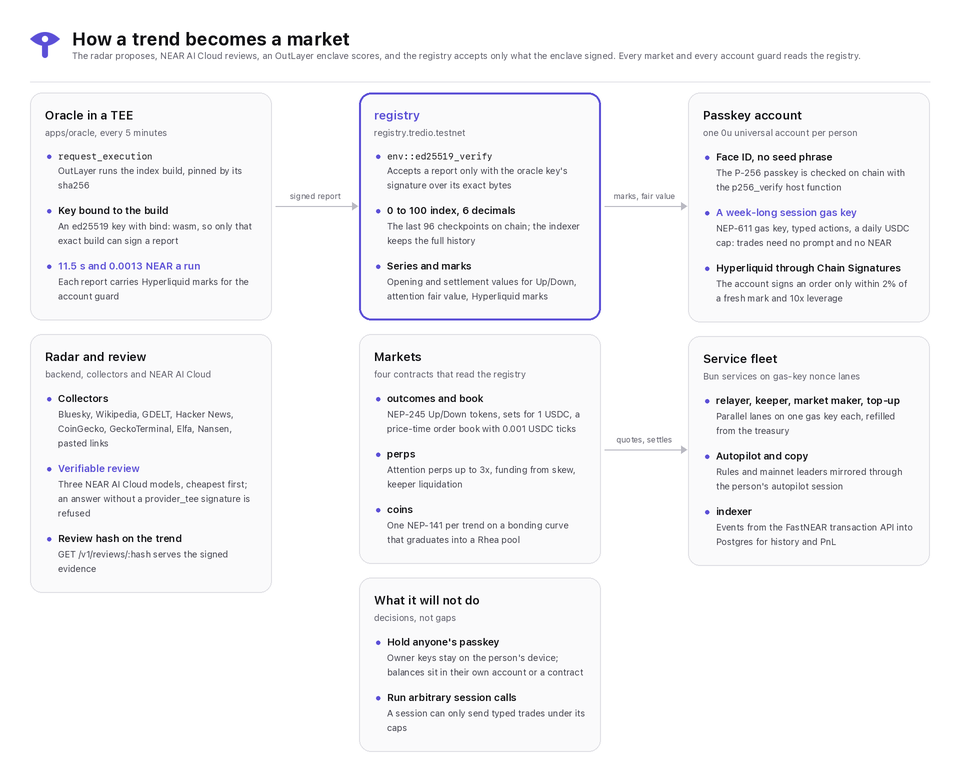
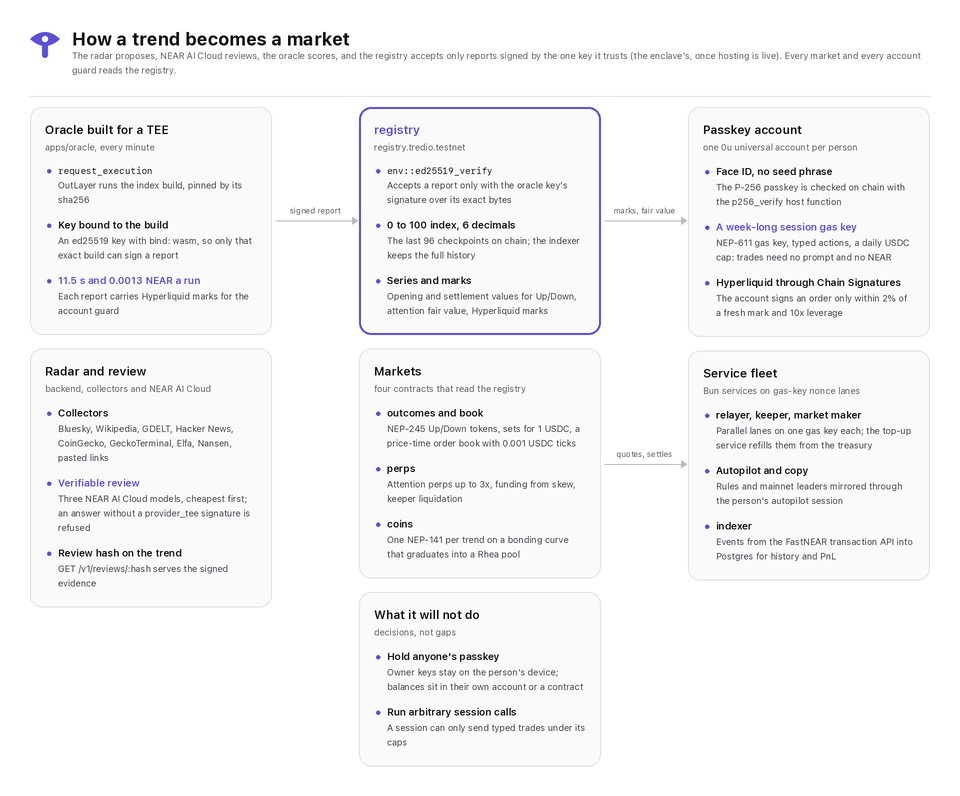
Docs say exactly what is live on testnet, after an independent review
- README: the oracle is 'built for an enclave' with its testnet status (bootstrap key until the API is hosted); review, Hyperliquid and hosting each carry their status; the top-up service refills gas keys rather than sending through one; Autopilot's on-chain guard is price and leverage, with stop-loss and loss limits off chain; one cadence everywhere (runs every minute, reports a trend on a 1% move or every seven minutes, marks every run); what pnpm verify checks, as it checks it; app screenshots; one sentence per line.
- JUDGES: a hosting line, the bootstrap key in the oracle rows, account code v2 not yet published (H-1 open on v1 accounts), the account code only its passkey can switch, and the x402 payer named.
- AUDIT: user presence versus user verification as an accepted risk.
- Website, llms.txt and the status page: the same wording; the radar has eight sources.

diff --git a/landing-page/src/config/content.js b/landing-page/src/config/content.js
@@ -8,7 +8,7 @@ export const HOW_IT_WORKS = [
     heading: "A topic starts trending. Tredio's radar spots it and proposes a market.",
     label: "Radar",
     detail: "Signals",
-    description: "Six data sources feed it, around the clock.",
+    description: "Eight data sources feed it, around the clock.",
   },
   {
     image: "/assets/img/about-review.webp",
@@ -19,10 +19,10 @@ export const HOW_IT_WORKS = [
   },
   {
     image: "/assets/img/crypto-chart.jpg",
-    heading: "Inside an OutLayer TEE, an oracle scores its attention from 0 to 100 and writes it on NEAR.",
+    heading: "An oracle built for an OutLayer TEE scores its attention from 0 to 100 and writes it on NEAR.",
     label: "Oracle",
     detail: "OutLayer TEE",
-    description: "The registry accepts attested reports only.",
+    description: "The registry accepts reports signed by its one oracle key only.",
   },
   {
     image: "/assets/img/about-markets.webp",
@@ -78,7 +78,7 @@ export const TRACKS = [
     background: "bg-[#110F28]",
     title: "Agents read the index and trade by the rules you set.",
     description:
-      "An MCP server and a pay-per-call x402 API give agents the index and the markets. Autopilot trades your rules through a revocable session on your own account, inside limits your passkey signed.",
+      "An MCP server and a pay-per-call x402 API give agents the index and the markets. Autopilot trades your rules through a revocable session on your own account, under an on-chain price and leverage guard.",
     image: "/assets/img/track-agents.webp",
     alt: "An agent's tool call reading a trend's index, and an Autopilot rule with its limits",
   },

diff --git a/frontend/src/features/status/Status.tsx b/frontend/src/features/status/Status.tsx
@@ -136,7 +136,7 @@ function OracleCard({ s, since }: { s: SystemStatus; since: number }) {
         <Fact label="Live trends" value={live === undefined ? "..." : integer(live)} testId="live-trends" />
         <Fact label="Trends behind on measurements" value={integer(s.oracle.staleTrends)} tone={s.oracle.staleTrends > 0 ? "warn" : undefined} testId="stale-trends" />
       </div>
-      <p className="text-[13px] leading-5 text-text-2">The Tredio oracle measures attention on X, Telegram, Bluesky, news, Wikipedia, Hacker News and smart-money flows every minute and records each trend&rsquo;s index. Perps trade at it, and every Up or down series settles on it.</p>
+      <p className="text-[13px] leading-5 text-text-2">The Tredio oracle measures attention on X, Telegram, Bluesky, news, Wikipedia, Hacker News and smart-money flows every minute and records each trend&rsquo;s index. Perps trade at it, and every Up/Down series settles on it.</p>
     </Card>
   );
 }

diff --git a/landing-page/src/config/links.js b/landing-page/src/config/links.js
@@ -13,7 +13,7 @@ export const SITE_URL = process.env.NEXT_PUBLIC_SITE_URL || "https://tredio.bid"
 export const SITE_NAME = "Tredio";
 export const SITE_TITLE = "Tredio | Trade the World's Attention";
 export const SITE_DESCRIPTION =
-  "Attention markets on NEAR. An AI radar finds trends, a TEE oracle scores each one from 0 to 100 on chain, and you trade the index from a passkey account: Up/Down outcomes, attention perps, trend coins and Hyperliquid perps.";
+  "Attention markets on NEAR. An AI radar finds trends, an oracle built for a TEE scores each one from 0 to 100 on chain, and you trade the index from a passkey account: Up/Down outcomes, attention perps, trend coins and Hyperliquid perps.";
 
 // The one address for every question (support, partners, press, security).
 export const CONTACT_EMAIL = "contact@tredio.bid";

diff --git a/tools/make_readme_art.py b/tools/make_readme_art.py
@@ -627,12 +627,12 @@ TAGLINE = "Trade the world's attention on NEAR."
 def pipeline() -> Columns:
     return Columns(
         "How a trend becomes a market",
-        "The radar proposes, NEAR AI Cloud reviews, an OutLayer enclave scores, and the registry accepts only what the enclave signed. Every market and every account guard reads the registry.",
+        "The radar proposes, NEAR AI Cloud reviews, the oracle scores, and the registry accepts only reports signed by the one key it trusts (the enclave's, once hosting is live). Every market and every account guard reads the registry.",
         [
             [
                 Panel(
-                    "Oracle in a TEE",
-                    "apps/oracle, every 5 minutes",
+                    "Oracle built for a TEE",
+                    "apps/oracle, every minute",
                     [
                         Item("request_execution", "OutLayer runs the index build, pinned by its sha256", mono=True),
                         Item("Key bound to the build", "An ed25519 key with bind: wasm, so only that exact build can sign a report"),
@@ -692,7 +692,7 @@ def pipeline() -> Columns:
                     "Service fleet",
                     "Bun services on gas-key nonce lanes",
                     [
-                        Item("relayer, keeper, market maker, top-up", "Parallel lanes on one gas key each, refilled from the treasury"),
+                        Item("relayer, keeper, market maker", "Parallel lanes on one gas key each; the top-up service refills them from the treasury"),
                         Item("Autopilot and copy", "Rules and mainnet leaders mirrored through the person's autopilot session"),
                         Item("indexer", "Events from the FastNEAR transaction API into Postgres for history and PnL"),
                     ],
@@ -700,7 +700,7 @@ def pipeline() -> Columns:
             ],
         ],
         [
-            ("Oracle in a TEE", "registry", "signed report"),
+            ("Oracle built for a TEE", "registry", "signed report"),
             ("registry", "Passkey account", "marks, fair value"),
             ("Markets", "Service fleet", "quotes, settles"),
         ],

diff --git a/README.md b/README.md
@@ -5,16 +5,20 @@
 </picture>
 
 Tredio turns what the internet is talking about into markets you can trade.
-An AI radar finds trends, NEAR AI Cloud reviews them with verifiable models, an oracle running in an OutLayer enclave scores each one from 0 to 100, and the score lives on NEAR, where people trade it.
+An AI radar finds trends, NEAR AI Cloud reviews them with verifiable models, an oracle built to run in an OutLayer enclave scores each one from 0 to 100, and the score lives on NEAR, where people trade it.
 You sign up with Face ID, get a NEAR account with no seed phrase, and trade for a week without another prompt or a drop of gas.
 
 [App](https://app.tredio.bid) · [Website](https://tredio.bid) · [API status](https://api.tredio.bid/v1/status) · [Judges' guide](JUDGES.md) · [For AI agents](AGENTS.md) · [llms.txt](https://tredio.bid/llms.txt)
 
-Everything runs on NEAR testnet today: the contracts, the oracle, the accounts and every service.
+Everything runs on NEAR testnet: the contracts, the oracle, the accounts and every service.
+The hosted app, website and API at tredio.bid go live before judging; until then everything runs locally against testnet (see [Run it](#run-it)), and every on-chain claim can be checked with `pnpm verify`.
+
+<img src="assets/readme/app-trend.png" alt="A trend page in the app: the World Cup's attention index over 24 hours, its stats, and the Up/Down ticket with Up at 79.3 cents" width="960">
 
 ## What you can trade
 
-- **Up/Down series.** Will a trend's attention close above its opening level in 24 hours or 7 days? Each token pays 1 USDC if it is right, on an on-chain order book.
+- **Up/Down series.** Will a trend's attention close above its opening level in 24 hours or 7 days?
+  Each token pays 1 USDC if it is right, on an on-chain order book.
 - **Attention perps.** Go long or short on the index itself, with isolated margin up to 3x and funding from the skew between longs and shorts.
 - **Trend coins.** One token per trend on a bonding curve whose floor ratchets up with peak attention, graduating into a Rhea pool.
 - **Hyperliquid perps** on the asset behind a trend, signed by your NEAR account.
@@ -26,33 +30,43 @@ Everything runs on NEAR testnet today: the contracts, the oracle, the accounts a
 Each of these is a NEAR primitive doing real work in the product, not a logo on a slide.
 
 1. **Face ID accounts with no seed phrase and no gas.**
-   A passkey creates a [NEP-655](https://github.com/near/NEPs) universal account (`0u...`) whose id is derived from the passkey itself, from inside the `accounts` factory, on a global contract.
+   A passkey creates a NEP-655 universal account (`0u...`) whose id is derived from the passkey itself, from inside the `accounts` factory, on a global contract.
    The account checks the passkey's P-256 signature on chain with the `p256_verify` host function, so no server can act as the owner.
-   One prompt adds a week-long session key that is a [NEP-611](https://github.com/near/NEPs) gas key: it prepays its own gas, has four nonce lanes for parallel trades, and can only send typed trades under a daily USDC cap.
-   In the app: Sign in, then trade. Code: [`contracts/account`](contracts/account), [`contracts/accounts`](contracts/accounts), [`frontend/src/lib/account`](frontend/src/lib/account).
-2. **An index that only an enclave can move.**
-   The attention index is computed by a WASI build that [OutLayer](https://outlayer.ai) runs in a TEE, pinned by its sha256.
-   OutLayer holds an ed25519 key bound to that exact build (`bind: wasm`), and the `registry` contract accepts a report only with that key's signature (`env::ed25519_verify`).
-   In the app: every trend page shows its index history; the status page shows the oracle's last run. Code: [`apps/oracle/tee`](apps/oracle/tee), [`contracts/registry/src/oracle.rs`](contracts/registry/src/oracle.rs), method in [`apps/oracle/docs`](apps/oracle/docs).
-   Status: the build runs on OutLayer with an attested TDX quote, and the registry still trusts its bootstrap key until the API it reads is public; [JUDGES.md](JUDGES.md) explains, and `pnpm verify` prints the key in use.
+   One prompt adds a week-long session key that is a NEP-611 gas key: it prepays its own gas and can only send typed trades under a daily USDC cap.
+   In the app: Sign in, then trade.
+   Code: [`contracts/account`](contracts/account), [`contracts/accounts`](contracts/accounts), [`frontend/src/lib/account`](frontend/src/lib/account).
+2. **An oracle built for an enclave.**
+   The attention index is computed by a WASI build made for [OutLayer](https://outlayer.ai)'s TEE, pinned by its sha256; OutLayer derives an ed25519 key bound to that exact build (`bind: wasm`).
+   The `registry` contract accepts a report only with the signature of the one oracle key it trusts (`env::ed25519_verify`), checks its run id and time window, and clamps every move.
+   Status on testnet: the build runs on OutLayer with an attested TDX quote, but the registry still trusts a bootstrap key the team holds, because the enclave reads the collectors' readings from the public API, which goes live with hosting; the switch is one public `set_oracle` transaction, and `pnpm verify` prints which key is in use.
+   In the app: every trend page shows its index history; the status page shows the oracle's last run.
+   Code: [`apps/oracle/tee`](apps/oracle/tee), [`contracts/registry/src/oracle.rs`](contracts/registry/src/oracle.rs), method and trust model in [`apps/oracle/docs`](apps/oracle/docs).
 3. **AI review you can verify.**
    Every candidate the radar finds is reviewed by NEAR AI Cloud's verifiable models.
    An answer without a `provider_tee` signature is refused, and the hash of the signed evidence is written on the trend in the registry.
-   In the app: the Verified chip on a trend opens the evidence. Code: [`backend/src/ai/nearai.ts`](backend/src/ai/nearai.ts), `GET /v1/reviews/:hash`.
+   Status on testnet: waiting for a NEAR AI Cloud key, so today's trends were added by hand and carry no review yet.
+   In the app: the Verified chip on a reviewed trend opens the evidence.
+   Code: [`backend/src/ai/nearai.ts`](backend/src/ai/nearai.ts), `GET /v1/reviews/:hash`.
 4. **Hyperliquid perps from a NEAR account.**
    Your account contract builds the Hyperliquid order (msgpack action, connection id, EIP-712 digest) and asks [Chain Signatures](https://docs.near.org/chain-abstraction/chain-signatures) (`v1.signer-prod.testnet`) to sign it with your account's own derived key.
    A session can only sign orders within 2% of a fresh oracle mark and up to 10x leverage, enforced on chain.
-   In the app: the Perp tab's Hyperliquid market on a trend with an asset. Code: [`contracts/account/src/hyperliquid.rs`](contracts/account/src/hyperliquid.rs), [`packages/hyperliquid`](packages/hyperliquid).
+   Status on testnet: accounts run account code v1, whose guard does not yet bind the mark to the signed asset; v2 fixes that ([AUDIT.md](contracts/AUDIT.md), H-1) and is published once the testnet treasury can pay for it.
+   In the app: the Perp tab's Hyperliquid market, on a trend with an asset (NEAR, HYPE).
+   Code: [`contracts/account/src/hyperliquid.rs`](contracts/account/src/hyperliquid.rs), [`packages/hyperliquid`](packages/hyperliquid).
 5. **Deposits from any chain.**
    Deposits and withdrawals go through [NEAR Intents 1Click](https://docs.near-intents.org), so USDC on another chain lands in your NEAR account in one step.
    1Click settles on mainnet only; on testnet the app shows real dry quotes.
-   In the app: Deposit. Code: [`packages/intents`](packages/intents), [`backend/src/deposits`](backend/src/deposits).
+   In the app: Deposit.
+   Code: [`packages/intents`](packages/intents), [`backend/src/deposits`](backend/src/deposits).
 6. **A service fleet on gas keys.**
-   The relayer, keeper, market maker and top-up service each send through a gas key with parallel nonce lanes, so one slow transaction never blocks the next; the top-up service refills every key from the treasury.
-   In the app: the status page lists every wallet, key and lane. Code: [`packages/chain`](packages/chain), [`apps`](apps).
+   The relayer, keeper and market maker each send through a gas key with parallel nonce lanes, so one slow transaction never blocks the next; the top-up service refills those keys and every service wallet from the treasury.
+   In the app: the status page lists every wallet, key and lane.
+   Code: [`packages/chain`](packages/chain), [`apps`](apps).
 7. **Autopilot on a revocable on-chain grant.**
-   Turning on Autopilot adds a session labelled `autopilot` that can only trade Hyperliquid, under the same on-chain guard, confirmed by reading the account.
-   In the app: Autopilot. Code: [`apps/autopilot`](apps/autopilot), [`backend/src/autopilot`](backend/src/autopilot).
+   Turning on Autopilot adds a session labelled `autopilot` that can only trade Hyperliquid, under the same on-chain price and leverage guard, confirmed by reading the account.
+   Stop-loss, take-profit and loss limits are enforced by the executor off chain.
+   In the app: Autopilot.
+   Code: [`apps/autopilot`](apps/autopilot), [`backend/src/autopilot`](backend/src/autopilot).
 8. **Paid data for agents, settled in USDC on NEAR.**
    Premium API endpoints (full-resolution index history with every source reading, and Autopilot backtests) follow x402 v2's NEAR `exact` scheme: the API answers HTTP 402, the agent signs one USDC `ft_transfer` as a NEP-366 delegate action and sends it in `PAYMENT-SIGNATURE`, and Tredio's relayer submits it, so the agent needs no NEAR for gas.
    A read-only MCP server and an agent skill describe the whole product to AI agents; the MCP server can also buy the paid history under a spending cap.
@@ -60,18 +74,20 @@ Each of these is a NEAR primitive doing real work in the product, not a logo on 
 
 ## How it works
 
-<img src="assets/readme/pipeline.png" alt="How a trend becomes a market: the OutLayer enclave signs index reports that the registry verifies; the radar's NEAR AI review hash goes on the trend; markets read the registry; passkey accounts and the service fleet trade against the markets" width="960">
+<img src="assets/readme/pipeline.png" alt="How a trend becomes a market: the oracle's signed reports update the registry; the radar's NEAR AI review hash goes on the trend; markets read the registry; passkey accounts and the service fleet trade against the markets" width="960">
 
 The radar proposes trends from public sources and NEAR AI Cloud reviews each one.
-The oracle sends the readings to the enclave every five minutes, and the enclave's signed report updates the index, opens and settles series, and records Hyperliquid marks.
+The oracle runs every minute: it reports a trend when its index moves 1% or at least every seven minutes, and Hyperliquid marks on every run; the signed report updates the index, opens and settles series, and records the marks.
 Markets read the registry: Up/Down series settle from it, perps use it as their price, coins ratchet their floor from its peak.
 People trade from their own account contracts, and the services keep markets quoted, series settled and wallets funded.
+
+<img src="assets/readme/app-status.png" alt="The status page: every service up, the oracle's last run, the NEAR head, and the service fleet's wallets and gas keys" width="960">
 
 ## Contracts on testnet
 
 | Contract | Account | What it does |
 | --- | --- | --- |
-| `registry` | [`registry.tredio.testnet`](https://testnet.nearblocks.io/address/registry.tredio.testnet) | Trends, the attested index, series opening and settlement values, Hyperliquid marks |
+| `registry` | [`registry.tredio.testnet`](https://testnet.nearblocks.io/address/registry.tredio.testnet) | Trends, the signed index, series opening and settlement values, Hyperliquid marks |
 | `outcomes` | [`outcomes.tredio.testnet`](https://testnet.nearblocks.io/address/outcomes.tredio.testnet) | NEP-245 Up and Down tokens; a complete set mints and redeems for 1 USDC |
 | `book` | [`book.tredio.testnet`](https://testnet.nearblocks.io/address/book.tredio.testnet) | Order book for Up and Down against USDC: limit, post-only and market orders |
 | `perps` | [`perps.tredio.testnet`](https://testnet.nearblocks.io/address/perps.tredio.testnet) | Attention perps: isolated margin up to 3x, funding, liquidation |
@@ -81,7 +97,7 @@ People trade from their own account contracts, and the services keep markets quo
 | `usdc` | [`usdc.tredio.testnet`](https://testnet.nearblocks.io/address/usdc.tredio.testnet) | Test USDC with a faucet (mainnet uses native USDC) |
 
 Account ids, global code hashes and the oracle key are in [`deployments/testnet.json`](deployments/testnet.json).
-The contracts were self-audited against the near-contract-audit checklist; findings and fixes are in [`contracts/AUDIT.md`](contracts/AUDIT.md).
+The contracts were self-audited against the near-contract-audit checklist and then reviewed independently; findings, fixes, what is still open on testnet and the team's remaining powers are in [`contracts/AUDIT.md`](contracts/AUDIT.md).
 
 ## Repository
 
@@ -99,7 +115,8 @@ pnpm dev
 ```
 
 `pnpm dev` starts the API, the services and the app against the testnet contracts, and prints what each needs in its `.env` (every app has a `.env.example`).
-Contracts build and test with `pnpm build:contracts` and `pnpm test:contracts`; the sandbox flows are `cargo test -p tredio-sandbox-tests`.
+Contracts build and test with `pnpm build:contracts` and `pnpm test:contracts`; the sandbox flows run with `cd contracts && cargo test -p tredio-sandbox-tests`.
+The launch film is a Remotion project in [`video/`](video).
 
 ## Check it yourself
 
@@ -107,19 +124,19 @@ Contracts build and test with `pnpm build:contracts` and `pnpm test:contracts`; 
 pnpm verify
 ```
 
-`pnpm verify` reads NEAR testnet and checks the claims in [JUDGES.md](JUDGES.md): the contracts and their code hashes, the oracle key the registry trusts, a live passkey account and its session, a recent attested report, and the test suites.
+`pnpm verify` reads NEAR testnet and checks the claims in [JUDGES.md](JUDGES.md): every contract holds code, user accounts run the factory's global code and derive from their passkeys, a live session gas key, the oracle key the registry trusts and how fresh its last report is, a Hyperliquid order signed through Chain Signatures, the OutLayer attestation of an enclave run, and an x402 payment; then it runs every test suite.
 
 ## For AI agents
 
 - [AGENTS.md](AGENTS.md): how the repository is laid out and how to work in it.
 - [`packages/mcp`](packages/mcp): a read-only MCP server for trends, markets, accounts and index verification.
 - [`skills/tredio/SKILL.md`](skills/tredio/SKILL.md): a skill that teaches an agent to read and trade Tredio safely.
-- [`llms.txt`](https://tredio.bid/llms.txt) and the x402 endpoints in the API.
+- [`llms.txt`](landing-page/public/llms.txt) and the x402 endpoints in the API.
 
 ## What came before the hackathon
 
 The app's screens, the admin panel, the website and much of the backend come from an earlier Tredio prototype on another chain.
-Everything on NEAR was built during the hackathon: the contracts, passkey accounts and sessions, the TEE oracle, NEAR AI review, Chain Signatures, 1Click, the gas-key services, the indexer, the MCP server and the x402 API.
+Everything on NEAR was built during the hackathon: the contracts, passkey accounts and sessions, the oracle and its enclave build, NEAR AI review, Chain Signatures, 1Click, the gas-key services, the indexer, the MCP server and the x402 API.
 Demo trades on testnet were made by project-owned accounts, so activity you see there is not organic.
 
 ## License

diff --git a/JUDGES.md b/JUDGES.md
@@ -1,8 +1,9 @@
 # For judges
 
-Tredio is an attention market built on NEAR primitives: passkey universal accounts, gas-key sessions, an oracle signed inside an OutLayer enclave, NEAR AI Cloud review, Chain Signatures for Hyperliquid, and NEAR Intents for deposits.
-This page lists every claim with the place to see it and a way to check it yourself.
+Tredio is an attention market built on NEAR primitives: passkey universal accounts, gas-key sessions, an oracle built for an OutLayer enclave, NEAR AI Cloud review, Chain Signatures for Hyperliquid, and NEAR Intents for deposits.
+This page lists every claim with the place to see it and a way to check it yourself, and ends with what is not finished.
 Everything runs on NEAR testnet.
+The hosted app at app.tredio.bid goes live before judging; until then, run it locally (README, "Run it") and check the on-chain claims with `pnpm verify`, which needs no hosting.
 
 ## In five minutes
 
@@ -19,14 +20,14 @@ Everything runs on NEAR testnet.
 | --- | --- | --- |
 | A passkey creates a NEAR account with no seed phrase | Sign in on the app | `pnpm verify` reads each account's `owner_key` (a `p256:` key) and asks the factory `accounts.account_id_of` for the account that key maps to |
 | The owner is checked on chain, not by a server | [`contracts/account/src/webauthn.rs`](contracts/account/src/webauthn.rs) | `owner_execute` verifies the WebAuthn P-256 assertion with the `p256_verify` host function; the relayer cannot fake one |
-| Every user account runs the same immutable code | [`deployments/testnet.json`](deployments/testnet.json) `globalCode.account` | `view_account` on any `0u...` account shows `global_contract_hash` `J1GvtY5x...`, the hash the factory's `config` names |
-| Trades need no prompt and no gas | The trade ticket after sign-in | Sessions are NEP-611 gas keys with four nonce lanes, typed actions and a daily USDC cap; `sessions` and `view_access_key` on an account show them |
-| Only the oracle key can move the index | [`contracts/registry/src/oracle.rs`](contracts/registry/src/oracle.rs) | `get_oracle` on `registry.tredio.testnet`; every `submit_report` is checked with `env::ed25519_verify` |
-| The oracle runs in a TEE | [`apps/oracle/docs/tee.md`](apps/oracle/docs/tee.md) | OutLayer's attestation of run [`73UDs4Yi...`](https://testnet.nearblocks.io/txns/73UDs4Yi8hNDu8xieSBJwmvrwFzPMcHium7xvkw3pcbm): `GET https://testnet-api.outlayer.ai/attestations/by-tx/73UDs4Yi8hNDu8xieSBJwmvrwFzPMcHium7xvkw3pcbm` returns a TDX quote over the wasm hash |
-| The enclave build is reproducible | [`apps/oracle/tee/build.sh`](apps/oracle/tee/build.sh) | `pnpm verify --build` rebuilds it and prints the sha256 |
+| Every user account runs the same code, which only its own passkey can change | [`deployments/testnet.json`](deployments/testnet.json) `globalCode.account` | `view_account` on any `0u...` account shows `global_contract_hash` `J1GvtY5x...`, the hash the factory's `config` names; only the passkey's own `upgrade` action switches it |
+| Trades need no prompt and no gas | The trade ticket after sign-in | Sessions are NEP-611 gas keys with typed actions and a daily USDC cap; `sessions` and `view_access_key` on an account show them |
+| Only the oracle key can move the index | [`contracts/registry/src/oracle.rs`](contracts/registry/src/oracle.rs) | `get_oracle` on `registry.tredio.testnet`; every `submit_report` is checked with `env::ed25519_verify`, an increasing run id, a time window and a 50% move clamp; today that key is the bootstrap key (see the last section) |
+| The oracle is built to run in a TEE | [`apps/oracle/docs/tee.md`](apps/oracle/docs/tee.md) | The OutLayer run recorded in [`deployments/testnet-proofs.json`](deployments/testnet-proofs.json) has an attestation with a TDX quote over the wasm hash; that run carries Hyperliquid marks only, since the enclave cannot reach the collectors' readings until the API is hosted |
+| The enclave build is reproducible | [`apps/oracle/tee/build.sh`](apps/oracle/tee/build.sh) | With the pinned toolchain, `pnpm verify --build` rebuilds it and compares the sha256 with the attested run's |
 | AI review is verifiable | [`backend/src/ai/nearai.ts`](backend/src/ai/nearai.ts) | Answers without a `provider_tee` signature are refused; `GET /v1/reviews/:hash` serves the signed evidence for a trend's `review_hash` |
 | A NEAR account signs Hyperliquid orders | [`contracts/account/src/hyperliquid.rs`](contracts/account/src/hyperliquid.rs) | Transaction [`DDkP3q4U...`](https://testnet.nearblocks.io/txns/DDkP3q4UkhrcN7AWragXMzwn5f4nGo8CXbhnVdBWWBAF) logs `hyperliquid_signed` and calls `v1.signer-prod.testnet` |
-| Hyperliquid orders are guarded on chain | Same file | A session can only sign within 2% of an oracle mark under two minutes old, at most 10x leverage; the unit tests cover each refusal |
+| Hyperliquid orders are guarded on chain | Same file | A session can only sign within 2% of a fresh oracle mark (two minutes old at most on account code v1, five on v2), at most 10x leverage; the unit tests cover each refusal; v2 also binds the mark to the signed asset (H-1 in [AUDIT.md](contracts/AUDIT.md)), and testnet accounts still run v1 |
 | Deposits from any chain | Deposit page | 1Click quotes from [`packages/intents`](packages/intents); on testnet the quotes are dry runs, since 1Click settles on mainnet |
 | Services run on gas-key lanes | Status page | `view_access_key` on `tredio-keeper.testnet`, `tredio-mm.testnet` and `tredio-relayer.testnet` shows gas keys with several nonces |
 | Agents can use and pay for the data | [`packages/mcp`](packages/mcp), [`backend/src/x402`](backend/src/x402) | `GET /v1/x402` lists the paid resources; a paid route answers 402 with x402 v2 NEAR `exact` requirements, settles a signed USDC delegate action through Tredio's relayer, and returns the data; [`scripts/x402-demo.ts`](scripts/x402-demo.ts) pays one on testnet |
@@ -35,7 +36,7 @@ Everything runs on NEAR testnet.
 
 - Contracts: [`registry`](https://testnet.nearblocks.io/address/registry.tredio.testnet), [`outcomes`](https://testnet.nearblocks.io/address/outcomes.tredio.testnet), [`book`](https://testnet.nearblocks.io/address/book.tredio.testnet), [`perps`](https://testnet.nearblocks.io/address/perps.tredio.testnet), [`coins`](https://testnet.nearblocks.io/address/coins.tredio.testnet), [`curation`](https://testnet.nearblocks.io/address/curation.tredio.testnet), [`accounts`](https://testnet.nearblocks.io/address/accounts.tredio.testnet), [`usdc`](https://testnet.nearblocks.io/address/usdc.tredio.testnet).
 - Passkey accounts from the end-to-end runs: [`0ugt5v5y...`](https://testnet.nearblocks.io/address/0ugt5v5y5rdhyhndtyhrwrkp5rxrmxhpfbrcx9ets3g94pjsdjt330) (script) and [`0u5rr3y2...`](https://testnet.nearblocks.io/address/0u5rr3y2bqwn16dvh33rwry06bpnyj97j5j9rk2gd0vyj0ncyy5nf0) (browser).
-- An x402 payment: [`8o1HFa5i...`](https://testnet.nearblocks.io/txns/8o1HFa5i3AfemE8FYm6HDFNAGGxZtQnxh622u22jaoZ1), 0.01 USDC for a trend's full history, signed by the agent as a delegate action and submitted by Tredio's relayer.
+- An x402 payment: [`8o1HFa5i...`](https://testnet.nearblocks.io/txns/8o1HFa5i3AfemE8FYm6HDFNAGGxZtQnxh622u22jaoZ1), 0.01 USDC for a trend's full history, signed as a delegate action by `tredio.testnet` (a project account playing the agent) and submitted by Tredio's relayer.
 - The records `pnpm verify` checks are listed in [`deployments/testnet-proofs.json`](deployments/testnet-proofs.json).
 
 ## Tracks
@@ -47,9 +48,11 @@ Everything runs on NEAR testnet.
 
 ## What is not finished, said plainly
 
+- The hosted app, website and API go live with hosting before judging; today they run locally against testnet.
 - The registry still trusts the bootstrap oracle key.
   The enclave build runs on OutLayer and its signatures verify the way the registry checks them, but the enclave reads the collectors' readings from the public API, so the switch to the enclave key (one `set_oracle` transaction, visible on chain) happens once the API is hosted.
   `pnpm verify` prints the key the registry trusts.
+- Account code v2 is written, tested and audited but not yet published on testnet (publishing burns about 32 NEAR, more than the testnet treasury holds), so every account runs v1, where H-1 (the Hyperliquid mark not bound to the signed asset) is still open; the registry's half of the fix is live.
 - Testnet trends were added by hand in the admin panel until a NEAR AI Cloud key is in place, so no live trend carries a review hash yet.
 - Hyperliquid answers "user does not exist" for derived addresses that hold no Hyperliquid testnet USDC; the orders are signed and sent, and they fill once an address is funded.
 - 1Click settles only on mainnet, so testnet deposits stop at a dry quote.

diff --git a/contracts/AUDIT.md b/contracts/AUDIT.md
@@ -147,6 +147,9 @@ What the team can still do on testnet, stated plainly:
 
 ## Accepted risks and observations
 
+- The account checks that the passkey's assertion carries user presence, not user verification (the UV flag).
+  The app requires user verification from the authenticator (Face ID, a fingerprint or a PIN), so a person's own device always asks, but the contract itself would accept a presence-only assertion from the same key.
+  Requiring the UV flag on chain is a one-line change for the next account code.
 - Plain (non-gas) session keys have an unlimited allowance, so a leaked one sent directly could burn the account's liquid NEAR on failing calls.
   A cap was tried and reverted: an allowance is charged the attached gas at 1e9 yocto per gas (the sandbox charged 0.3009 NEAR of allowance for one 300 Tgas call), so any cap small enough to matter stops the key.
   The app uses gas keys only; plain keys are the fallback for meta transactions, where the relayer pays.

diff --git a/AGENTS.md b/AGENTS.md
@@ -12,7 +12,7 @@ The product overview is in [README.md](README.md); the judges' checklist is in [
 - `frontend/` (the app, 3000), `admin/` (operator console), `landing-page/` (tredio.bid): Next.js.
 - `packages/`: `chain` (sender, viewer, proofs, the x402 paying client), `contracts-ts` (`@tredio/contracts`: typed calls and deployments), `hyperliquid`, `intents` (1Click), `autopilot` (rule engine), `mcp` (MCP server).
 - `skills/tredio/SKILL.md`: the agent skill for using Tredio.
-- `scripts/`: `dev.ts` (run everything), `verify.ts` (check the claims against testnet), `e2e-testnet.ts` (one full flow on testnet), `gas-keys.ts`.
+- `scripts/`: `dev.ts` (run everything), `verify.ts` (check the claims against testnet), `e2e-testnet.ts` (one full flow on testnet), `x402-demo.ts` (pay for an x402 route on testnet), `gas-keys.ts`.
 - `tools/make_readme_art.py`: the README figures (Pillow, colours from `frontend/app/globals.css`).
 
 ## Commands
